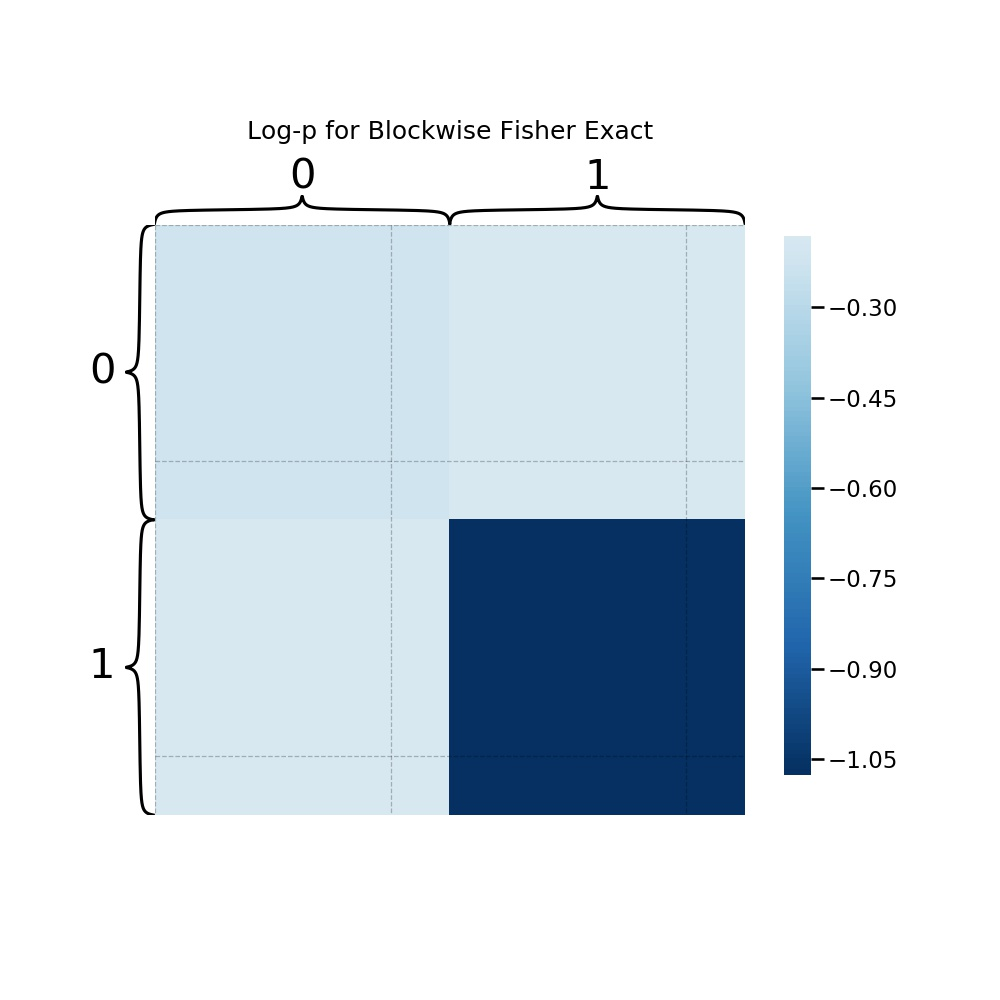
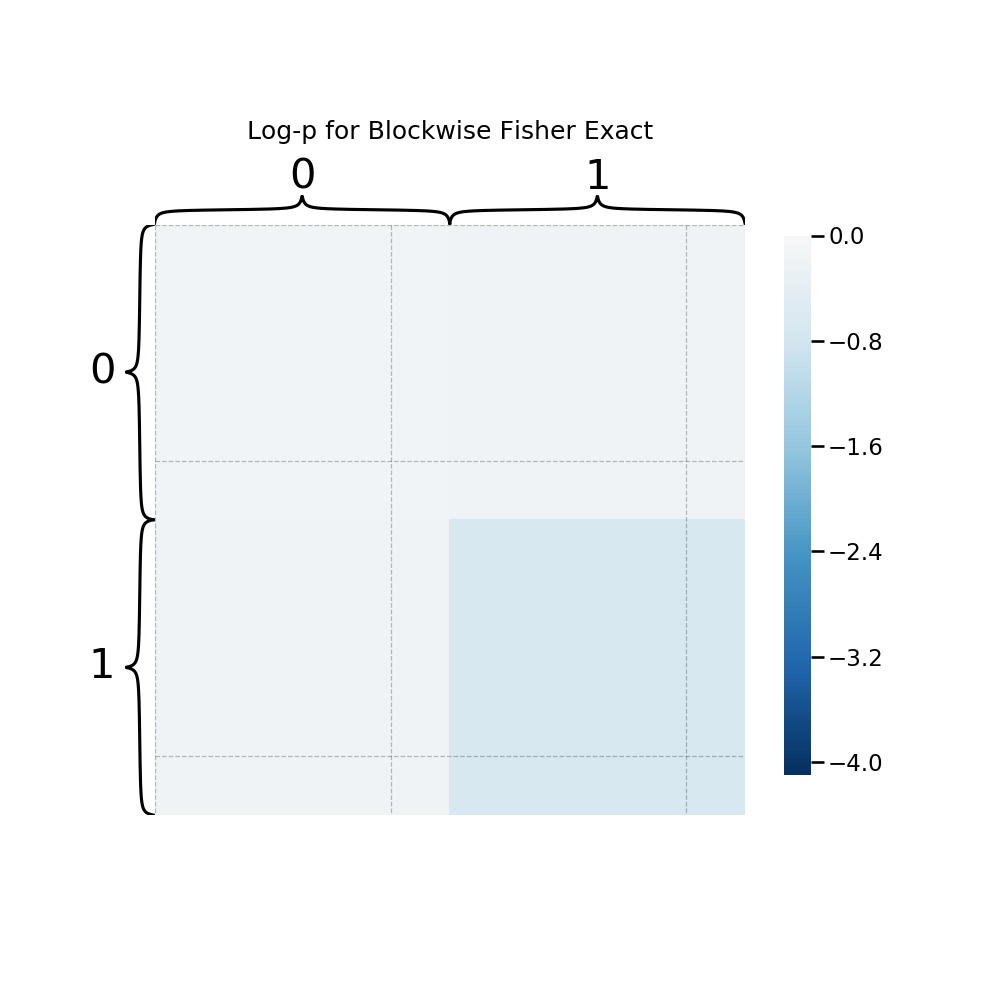
no redundant edges on diagonal blocks

diff --git a/experiments/experiment_8/experiment_8.py b/experiments/experiment_8/experiment_8.py
@@ -19,6 +19,7 @@ def _n_to_labels(n):
         return labels
 
 #Create population 1
+print('Making population 1...')
 m=100
 n1 = [50, 50]
 p1 = [[0.5, 0.2],
@@ -40,6 +41,7 @@ lbls1 = _n_to_labels(np.array(n1))
 
 #%%
 #Create population 2
+print('Making population 2...')
 sig=0.03
 print('Sigma is ' + str(sig))
 
@@ -72,7 +74,8 @@ lbls2 = _n_to_labels(n1)
 
 #%%
 #Edgewise test
-log_p = np.zeros(P1.shape[:2])
+print('Performing edgewise test...')
+ps = np.zeros(P1.shape[:2])
 for i in range(P1.shape[0]):
 	for j in range(i+1,P1.shape[1]):
 		edges_1 = P1[i,j,:]
@@ -80,21 +83,27 @@ for i in range(P1.shape[0]):
 		table = np.array([[np.sum(edges_1),np.sum(edges_1 == 0)],
 			[np.sum(edges_2),np.sum(edges_2 == 0)]])
 		_,p = fisher_exact(table)
-		log_p[i,j] = np.log(p)
-		log_p[j,i] = np.log(p)
+		ps[i,j] = p
+		ps[j,i] = p
 
 num_tests = P1.shape[0]*(P1.shape[0]-1)/2
-edgewise_sig = np.sum(log_p < np.log(0.05/num_tests))
+alpha_corrected = 0.05/num_tests
+edgewise_sig = np.sum(ps < alpha_corrected) - np.sum(n1) #all diagonals are 0
 print("Number of significant edges from Fisher's exact with a=0.05, Bonferroni Correction: " + str(edgewise_sig))
 
-heatmap(log_p,inner_hier_labels=lbls1, title ='Log-p for Edgewise Fisher Exact')
+vmin = np.log(alpha_corrected)
+
+heatmap(ps,inner_hier_labels=lbls1,
+	title ='Log-p for Edgewise Fisher Exact',
+	transform='log',vmin=vmin,vmax=0)
 
 plt.savefig('8_7_2019/fisher_edge.jpg')
 #%%
 #Blockwise test
+print('Performing blockwise test...')
 indices_1 = np.cumsum(n1)
 num_blocks = indices_1.shape[0]
-log_p_blocks = np.zeros((num_blocks,num_blocks))
+p_blocks = np.zeros((num_blocks,num_blocks))
 lbls_block = np.arange(0,num_blocks)
 for i in np.arange(num_blocks):
 	if i==0:
@@ -109,20 +118,39 @@ for i in np.arange(num_blocks):
 			start_j = indices_1[j-1]
 		end_j = indices_1[j]
 		
-		edges_1 = P1[start_i:end_i,start_j:end_j,:].flatten()
-		edges_2 = P2[start_i:end_i,start_j:end_j,:].flatten()
-		table = np.array([[np.sum(edges_1),np.sum(edges_1 == 0)],
-			[np.sum(edges_2),np.sum(edges_2 == 0)]])
+		block_1 = np.sum(P1[start_i:end_i,start_j:end_j,:],axis=2)
+		block_2 = np.sum(P2[start_i:end_i,start_j:end_j,:],axis=2)
+
+		#don't be redundant - only use upper triangle if on a diagonal block
+		if i == j:
+			idxs = np.triu_indices(n1[i],1)
+			ones_1 = np.sum(block_1[idxs])
+			zeros_1 = n1[i]*(n1[i]-1)*m/2 - ones_1
+			ones_2 = np.sum(block_2[idxs])
+			zeros_2 = n1[i]*(n1[i]-1)*m/2 - ones_2
+		else:
+			ones_1 = np.sum(block_1)
+			zeros_1 = n1[i]**2*m - ones_1
+			ones_2 = np.sum(block_2)
+			zeros_2 = n1[j]**2*m - ones_2
+
+		table = np.array([[ones_1,zeros_1],
+			[ones_2,zeros_2]])
+		
 		_,p = fisher_exact(table)
-		log_p_blocks[i,j] = np.log(p)
-		log_p_blocks[j,i] = np.log(p)
+		p_blocks[i,j] = p
+		p_blocks[j,i] = p
 
 num_tests = num_blocks*(num_blocks+1)/2
 alpha_corrected = 0.05/num_tests
-blockwise_sig = np.sum(log_p_blocks < np.log(alpha_corrected))
+blockwise_sig = np.sum(p_blocks < alpha_corrected)
 print("Number of significant blocks from Fisher's exact with a=0.05, Bonferroni Correction: " + str(blockwise_sig))
 
-heatmap(log_p_blocks,inner_hier_labels=lbls_block, title ='Log-p for Blockwise Fisher Exact')
+vmin = np.log(alpha_corrected)
+
+heatmap(p_blocks,inner_hier_labels=lbls_block,
+	title ='Log-p for Blockwise Fisher Exact',
+	transform='log',vmin=vmin,vmax=0)
 
 plt.savefig('8_7_2019/fisher_block.jpg')
 
@@ -136,7 +164,7 @@ dcorr = DCorr()
 
 indices_1 = np.cumsum(n1)
 num_blocks = indices_1.shape[0]
-log_p_blocks = np.zeros((num_blocks,num_blocks))
+p_blocks = np.zeros((num_blocks,num_blocks))
 lbls_block = np.arange(0,num_blocks)
 replication_factor = 1000
 
@@ -153,24 +181,37 @@ for i in np.arange(num_blocks):
 			start_j = indices_1[j-1]
 		end_j = indices_1[j]
 		
-		P_hat_1 = np.sum(P1[start_i:end_i,start_j:end_j,:],2).flatten()
-		P_hat_2 = np.sum(P2[start_i:end_i,start_j:end_j,:],2).flatten()
+		block_1 = np.sum(P1[start_i:end_i,start_j:end_j,:],axis=2)
+		block_2 = np.sum(P2[start_i:end_i,start_j:end_j,:],axis=2)
 
-		u,v = k_sample_transform(P_hat_1,P_hat_2)
+		#don't be redundant - only use upper triangle if on a diagonal block
+		if i == j:
+			idxs = np.triu_indices(n1[i],1)
+			edges_1 = block_1[idxs].flatten()
+			edges_2 = block_2[idxs].flatten()
+		else:
+			edges_1 = block_1.flatten()
+			edges_2 = block_2.flatten()
+
+		u,v = k_sample_transform(edges_1,edges_2)
 		p,_ = dcorr.p_value(u,v, replication_factor=replication_factor)
 
 		if p < 1/replication_factor:
 			p = 1/replication_factor
 
-		log_p_blocks[i,j] = np.log(p)
-		log_p_blocks[j,i] = np.log(p)
+		p_blocks[i,j] = p
+		p_blocks[j,i] = p
 
 num_tests = num_blocks*(num_blocks+1)/2
 alpha_corrected = 0.05/num_tests
-blockwise_sig = np.sum(log_p_blocks < np.log(alpha_corrected))
+blockwise_sig = np.sum(p_blocks < alpha_corrected)
 print("Number of significant blocks from MGC with a=0.05, Bonferroni Correction: " + str(blockwise_sig))
 
-heatmap(log_p_blocks,inner_hier_labels=lbls_block, title ='Log-p for Blockwise MGC')
+vmin = np.log(alpha_corrected)
+
+heatmap(p_blocks,inner_hier_labels=lbls_block,
+	title ='Log-p for Blockwise MGC',
+	transform='log',vmin=vmin,vmax=0)
 
 plt.savefig('8_7_2019/mgc_block.jpg')
 #%%
